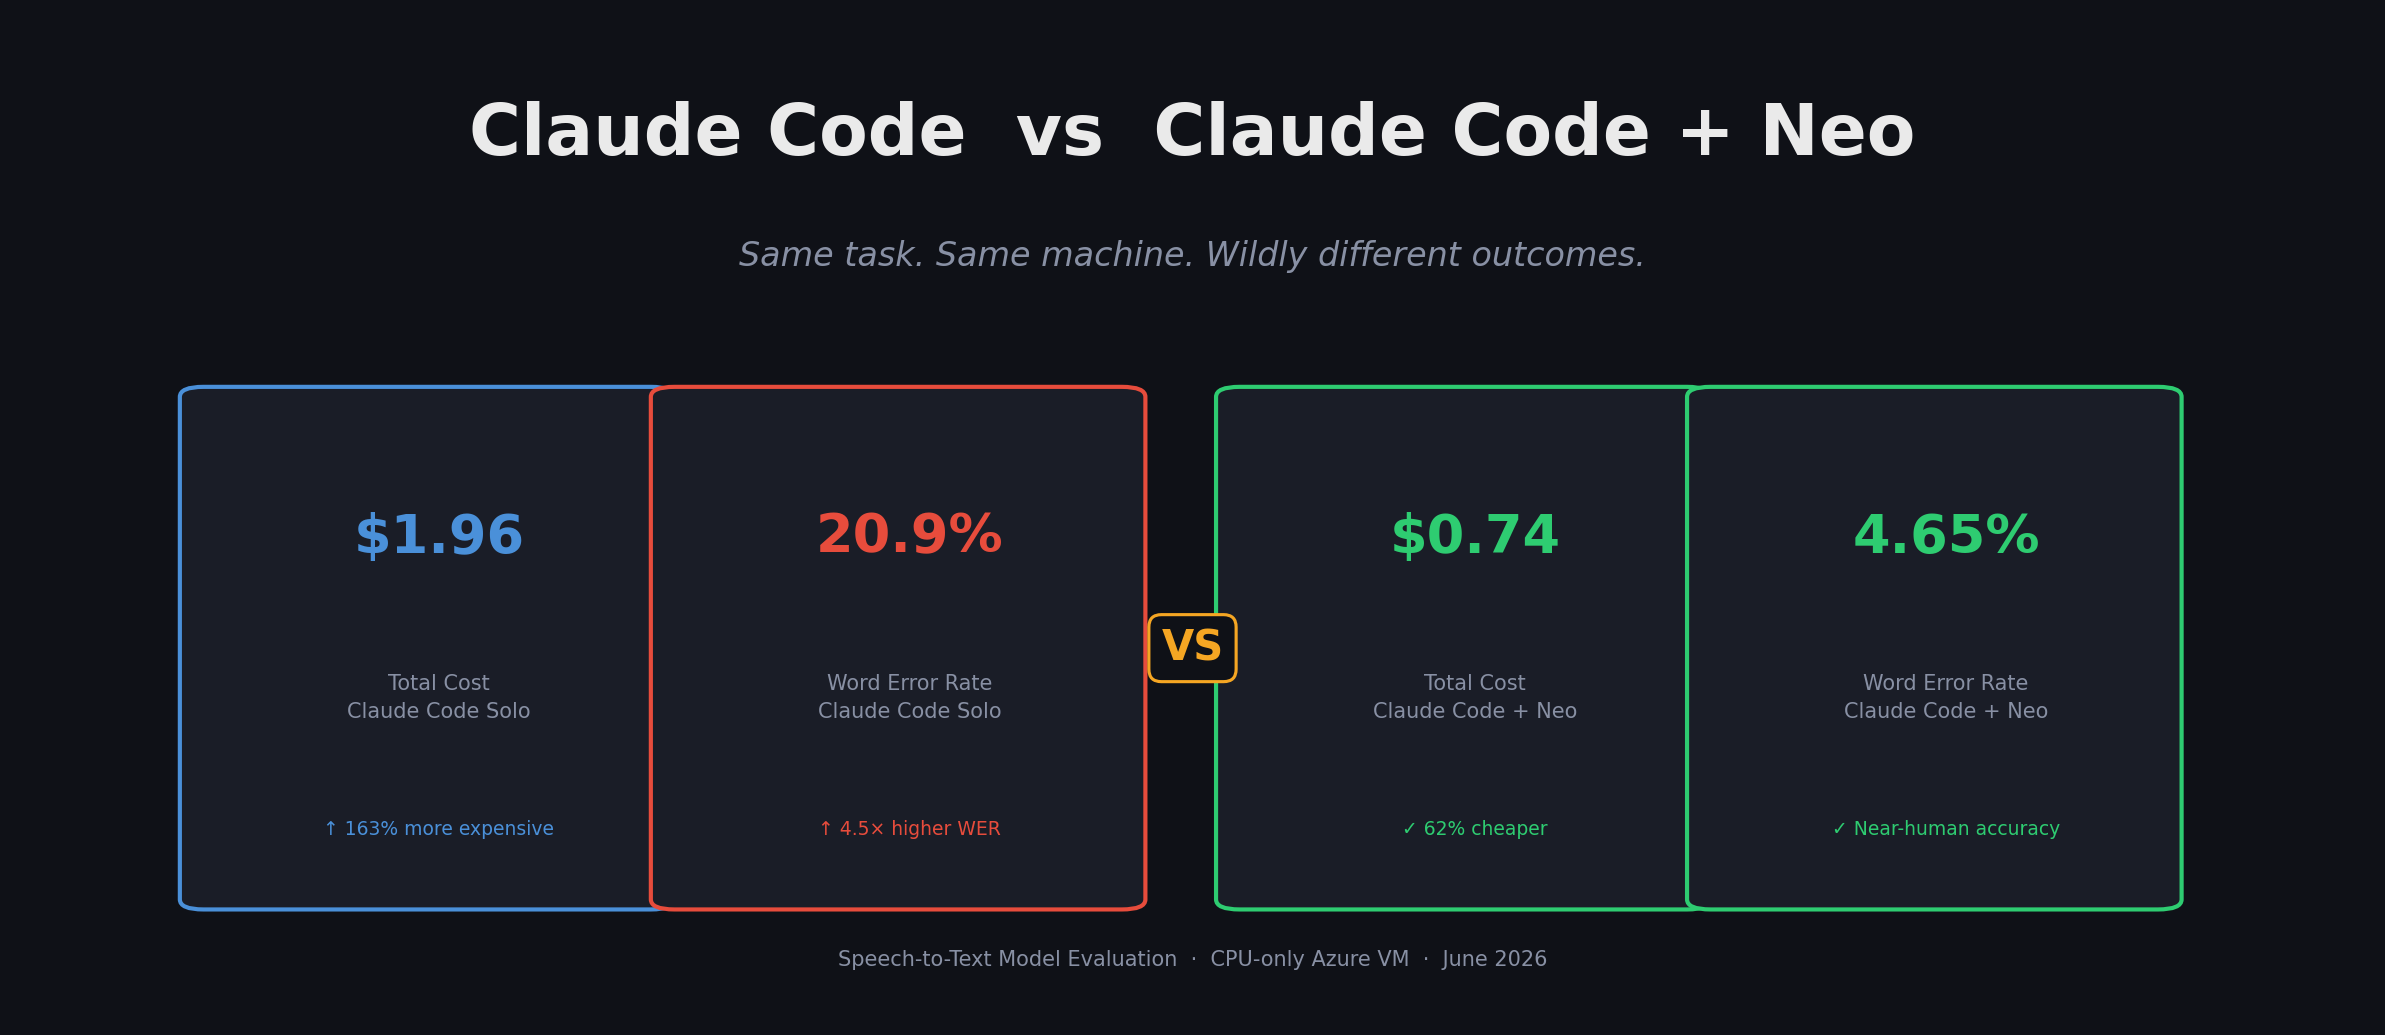
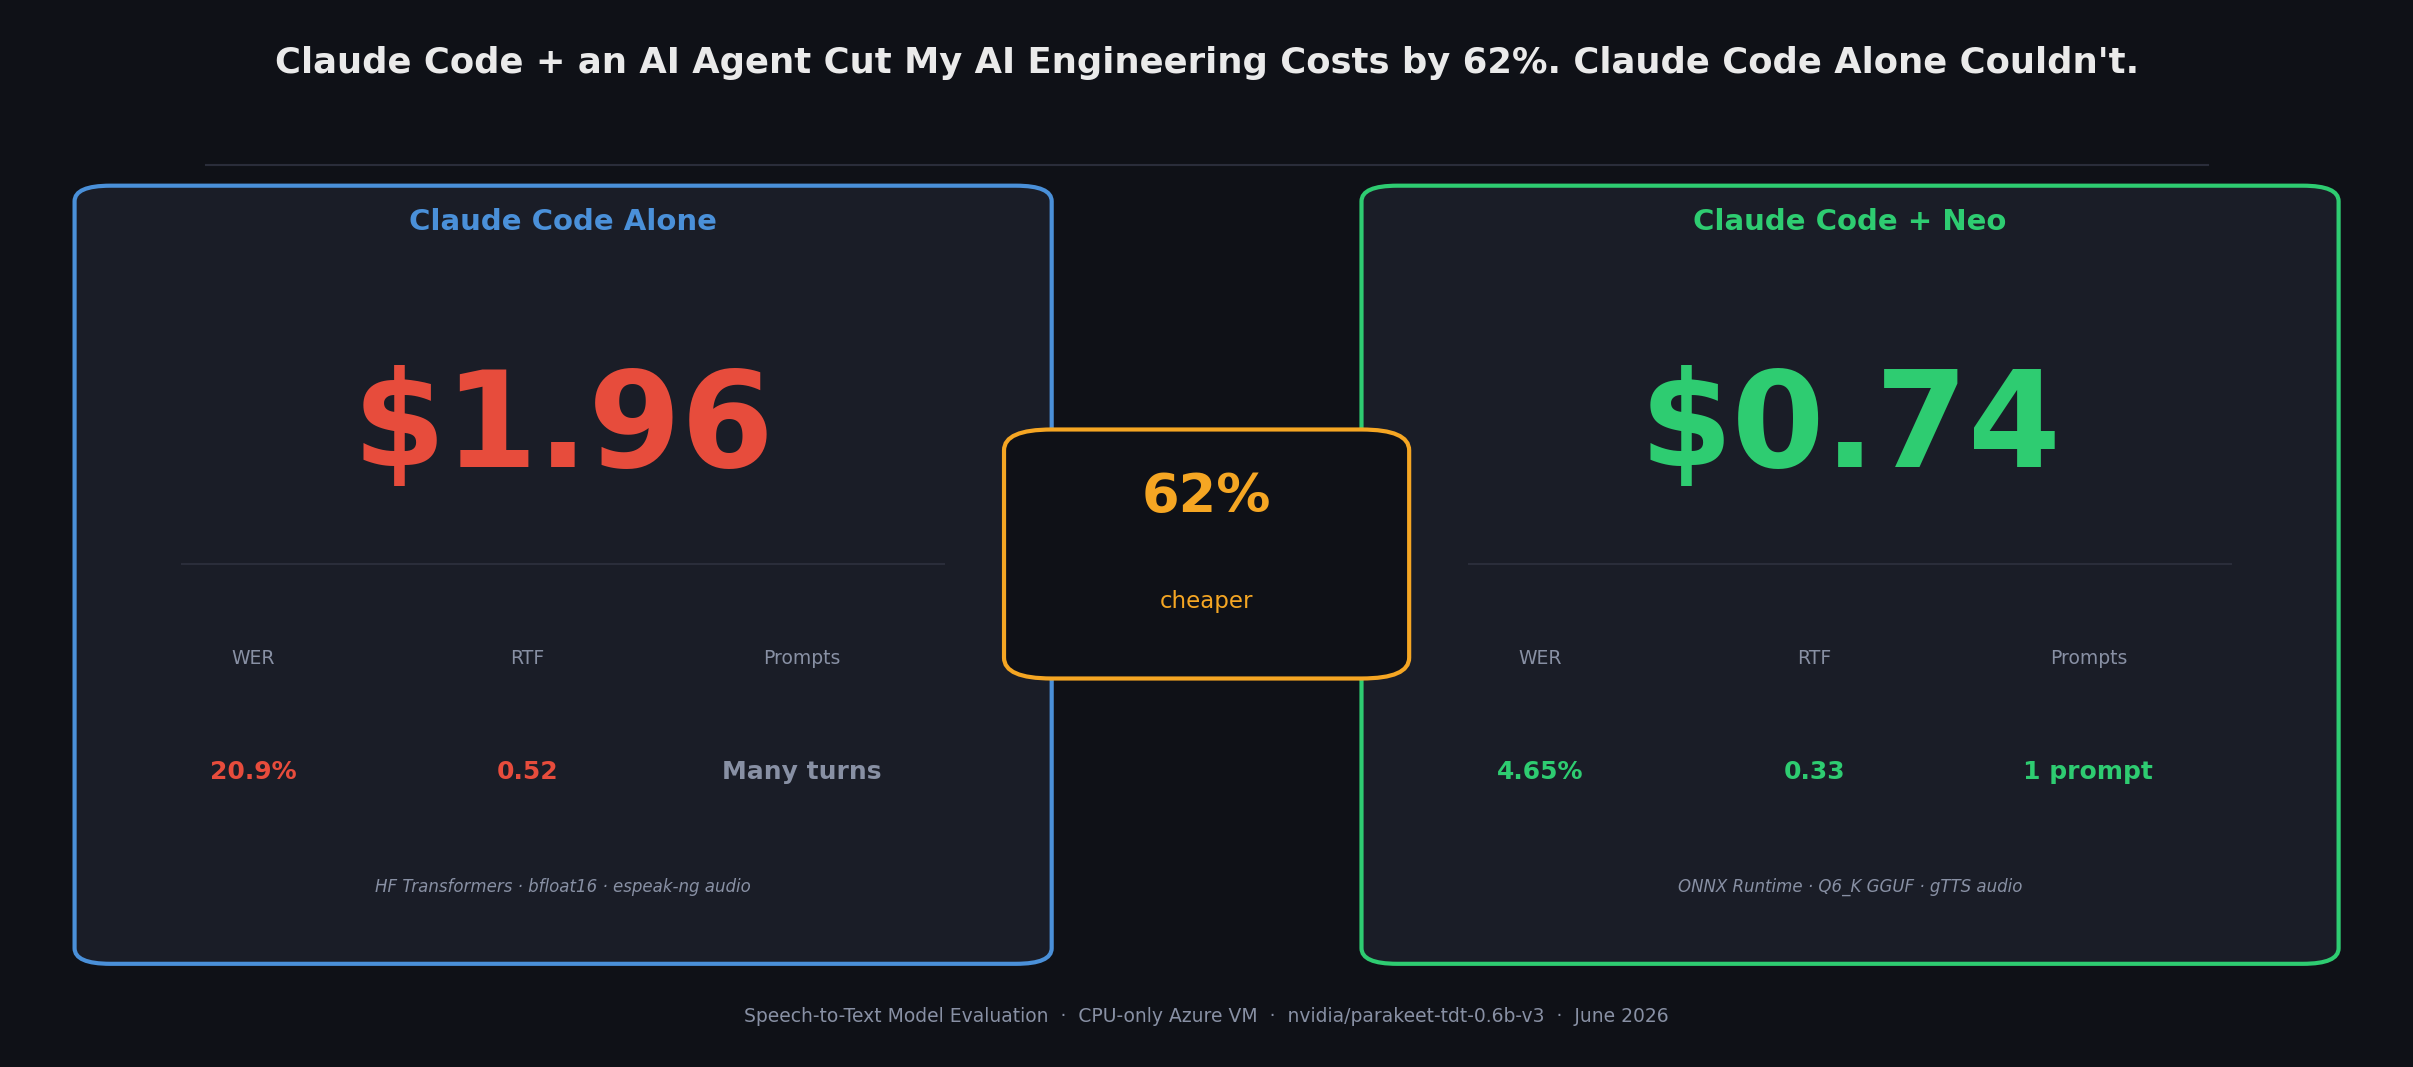
Update blog title and hero image to lead with 62% cost difference

diff --git a/claude-code-neo/blog_medium.md b/claude-code-neo/blog_medium.md
@@ -1,4 +1,4 @@
-# I Ran the Same AI Engineering Task Twice — Once With Claude Code Alone, Once With an AI Agent. The Results Weren't Close.
+# Claude Code + an AI Agent Cut My AI Engineering Costs by 62%. Claude Code Alone Couldn't.
 
 *Same model. Same machine. Same goal. The difference in cost, accuracy, and effort will make you rethink how you approach AI engineering work.*
 